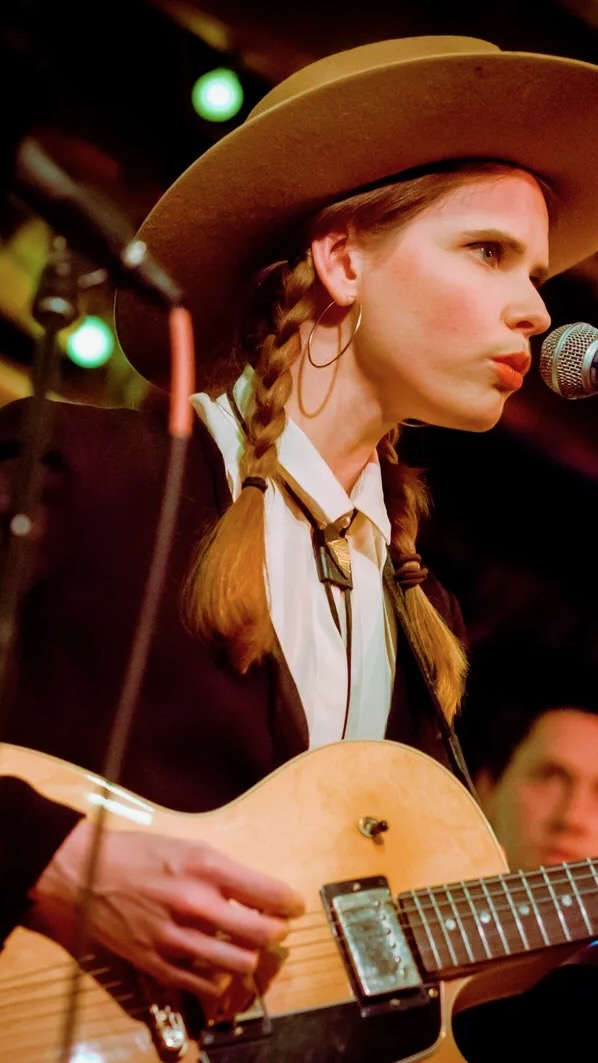
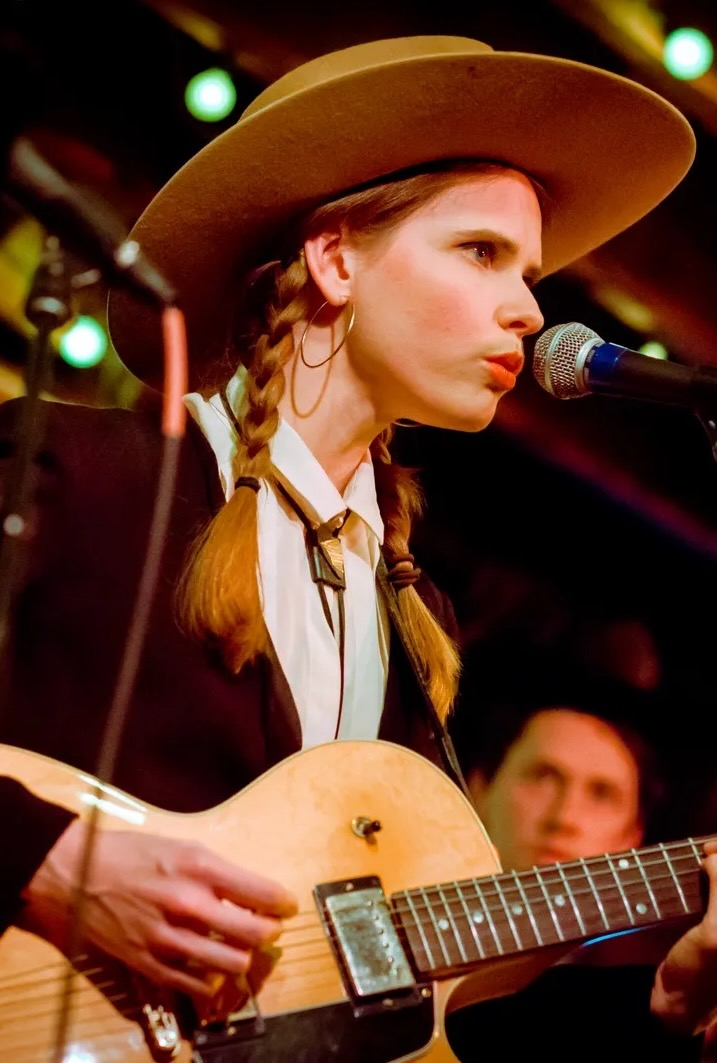
resized background photos for responsiveness

diff --git a/client/src/pages/LoginHost.js b/client/src/pages/LoginHost.js
@@ -6,6 +6,7 @@ import { LOGIN_HOST } from "../utils/mutations";
 import Auth from "../utils/auth";
 import { useHistory } from "react-router-dom";
 import "./LoginHost.css";
+import { Link } from "react-router-dom";
 
 const LoginHost = () => {
   const [formStateEmail, setFormStateEmail] = useState();
@@ -78,11 +79,12 @@ const LoginHost = () => {
               <div className="flex-row flex-end">
                 <button
                   className="btn hostLoginButton mx-auto"
-                  to={{ pathname: "/explore" }}
+                  to={{ pathname: "./explore" }}
                 >
                   Sign in
                 </button>
               </div>
+
               {error ? (
                 <div className="hostErrorText">
                   <p>The provided credentials are incorrect</p>
@@ -90,6 +92,10 @@ const LoginHost = () => {
               ) : null}
             </Form>
           </>
+          <p className="linkToSignup">
+            Don't have an account? <br></br>
+            <Link className="pageLink" to={{ pathname: "/hostSignup" }}>Sign up</Link>
+          </p>
         </div>
       </div>
     </section>

diff --git a/client/src/pages/LoginHost.css b/client/src/pages/LoginHost.css
@@ -9,25 +9,39 @@
 background: no-repeat center center fixed;
 }
 
-.hostMedia .hostOverlayText {
+.hostOverlayText {
     position: absolute;
     top: 2rem;
-    right: center   ;
+    left: 8rem;
     font-weight: bold;
     text-align: center;
     font-size: 3rem;
-    color: white;
+    color: #fff;
 }
 
 .hostLoginForm {
     position: absolute;
     bottom: 8rem;
-    right: 200px;
+    left: 6.5rem;
     font-weight: bold;
     text-align: center;
     font-size: 1.5rem;
     color: white;
     text-decoration: underline;
+    padding-bottom: 7rem;
+}
+
+.linkToSignup {
+    font-size: 1.5rem;
+    position: absolute;
+    color: #fff;
+    bottom: 5rem;
+    left: 5rem;
+    text-align: center;
+}
+
+.pageLink {
+    color: #fff
 }
 
 .hostLoginButton {

diff --git a/client/src/pages/Login.js b/client/src/pages/Login.js
@@ -1,11 +1,12 @@
 import React, { useState } from "react";
 import { useMutation } from "@apollo/client";
 import Form from "react-bootstrap/Form";
-import Musician from "../assets/music.jpg";
+import Musician from "../assets/musician.jpeg";
 import { LOGIN_ARTIST } from "../utils/mutations";
 import Auth from "../utils/auth";
 import { useHistory } from "react-router-dom";
 import "./Login.css";
+import JUAN from "../assets/juanArtist.jpeg";
 
 const Login = () => {
   const [formStateEmail, setFormStateEmail] = useState();

diff --git a/client/src/pages/Login.css b/client/src/pages/Login.css
@@ -7,9 +7,16 @@
 
 .backgroundImageArtistLogin {
     background: no-repeat center center fixed;
+    /* width: 100%;
+    height: 100vh;
+    height: auto;
+    background-size: cover; */
 }
 
-.artistMedia .artistOverlayText {
+/* @media screen (min-width: 415px) {
+    .backgroundImageArtistLogin 
+} */
+.artistOverlayText {
     position: absolute;
     top: 6rem;
     right: 230px;
@@ -54,4 +61,5 @@
 
 .artistErrorText {
     text-decoration: none;
+    
 }

diff --git a/client/src/pages/Home.js b/client/src/pages/Home.js
@@ -7,7 +7,7 @@ const Home = () => {
   return (
     <div className="w-100 d-flex flex-column align-items-center justify-content-center ">
       <VideoLoop className="mb-5" />
-      {auth.loggedIn() && <Link to={{ pathname: "/explore" }}>Explore</Link>}
+      {auth.loggedIn() && <Link to={{ pathname: "/explore" }}></Link>}
       <Link className="mt-5 btn button" to={{ pathname: "/explore" }}>
         Explore
       </Link>
